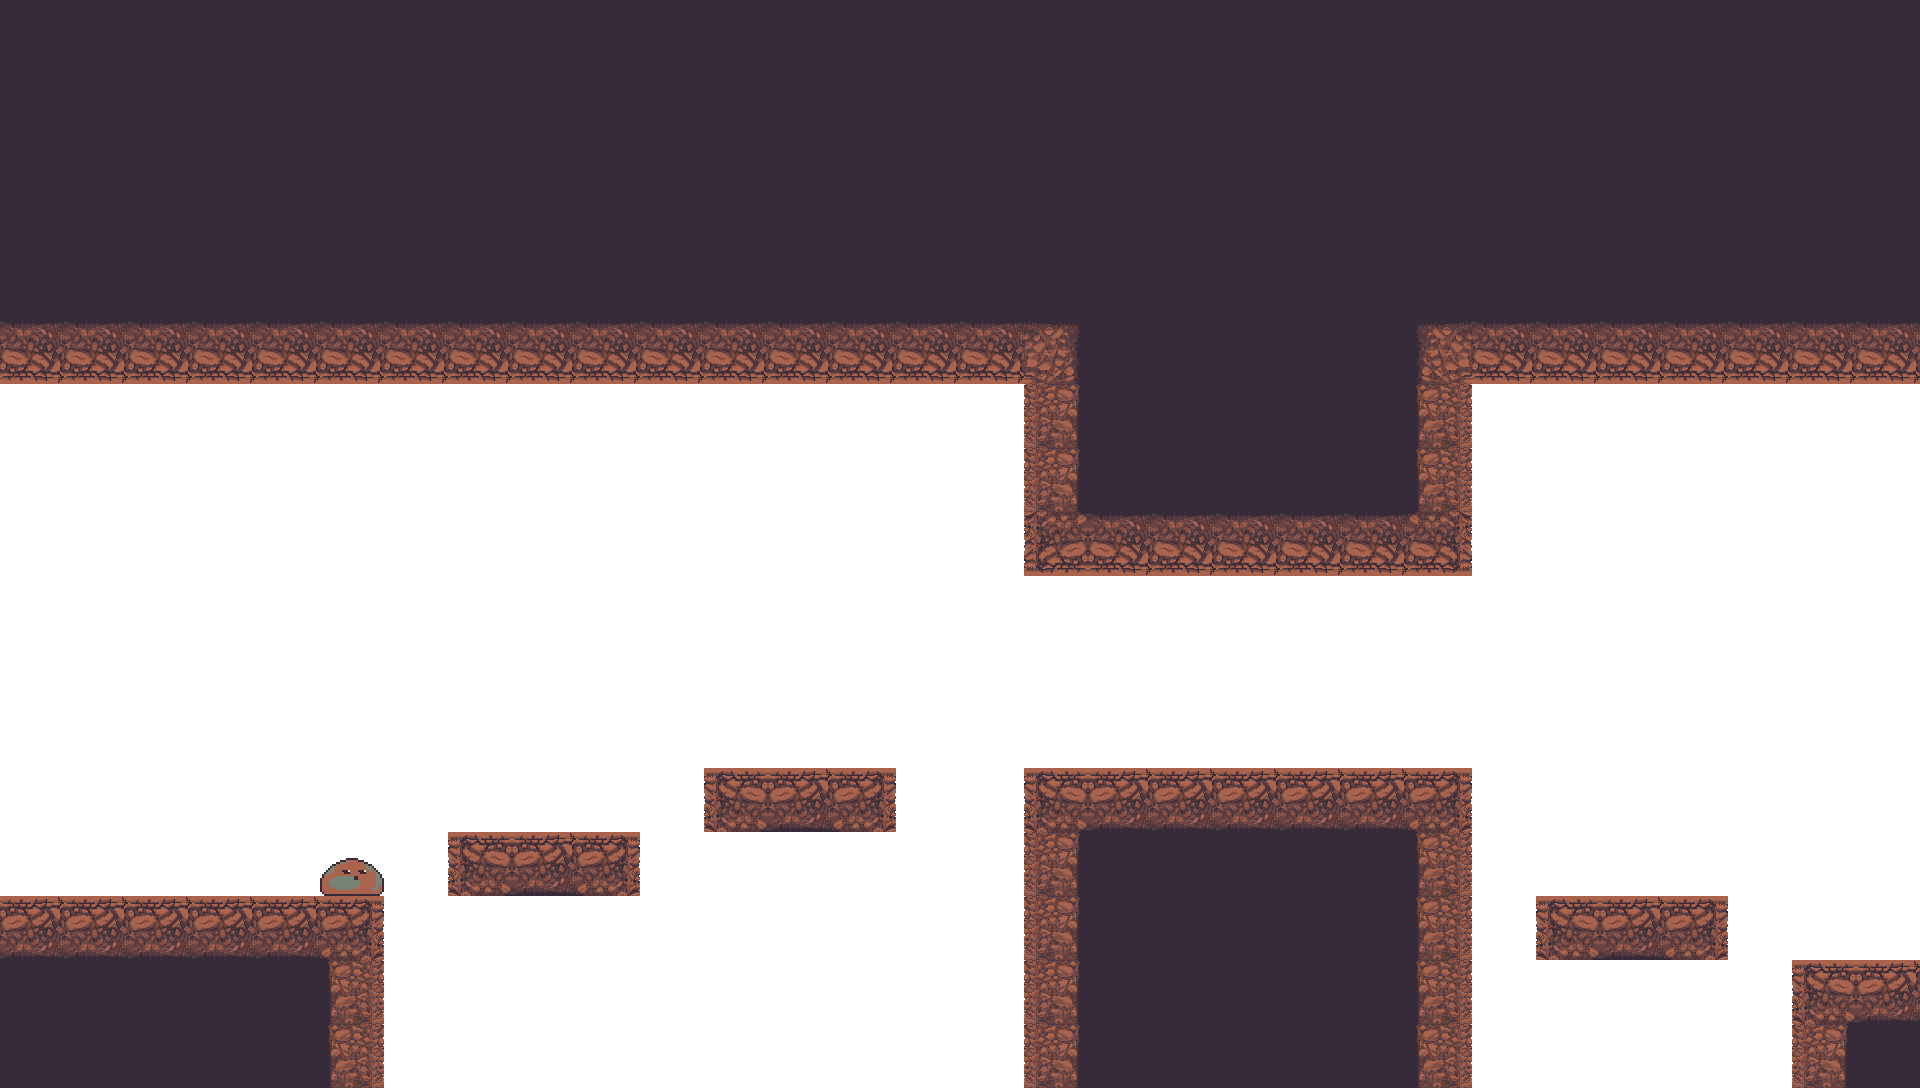
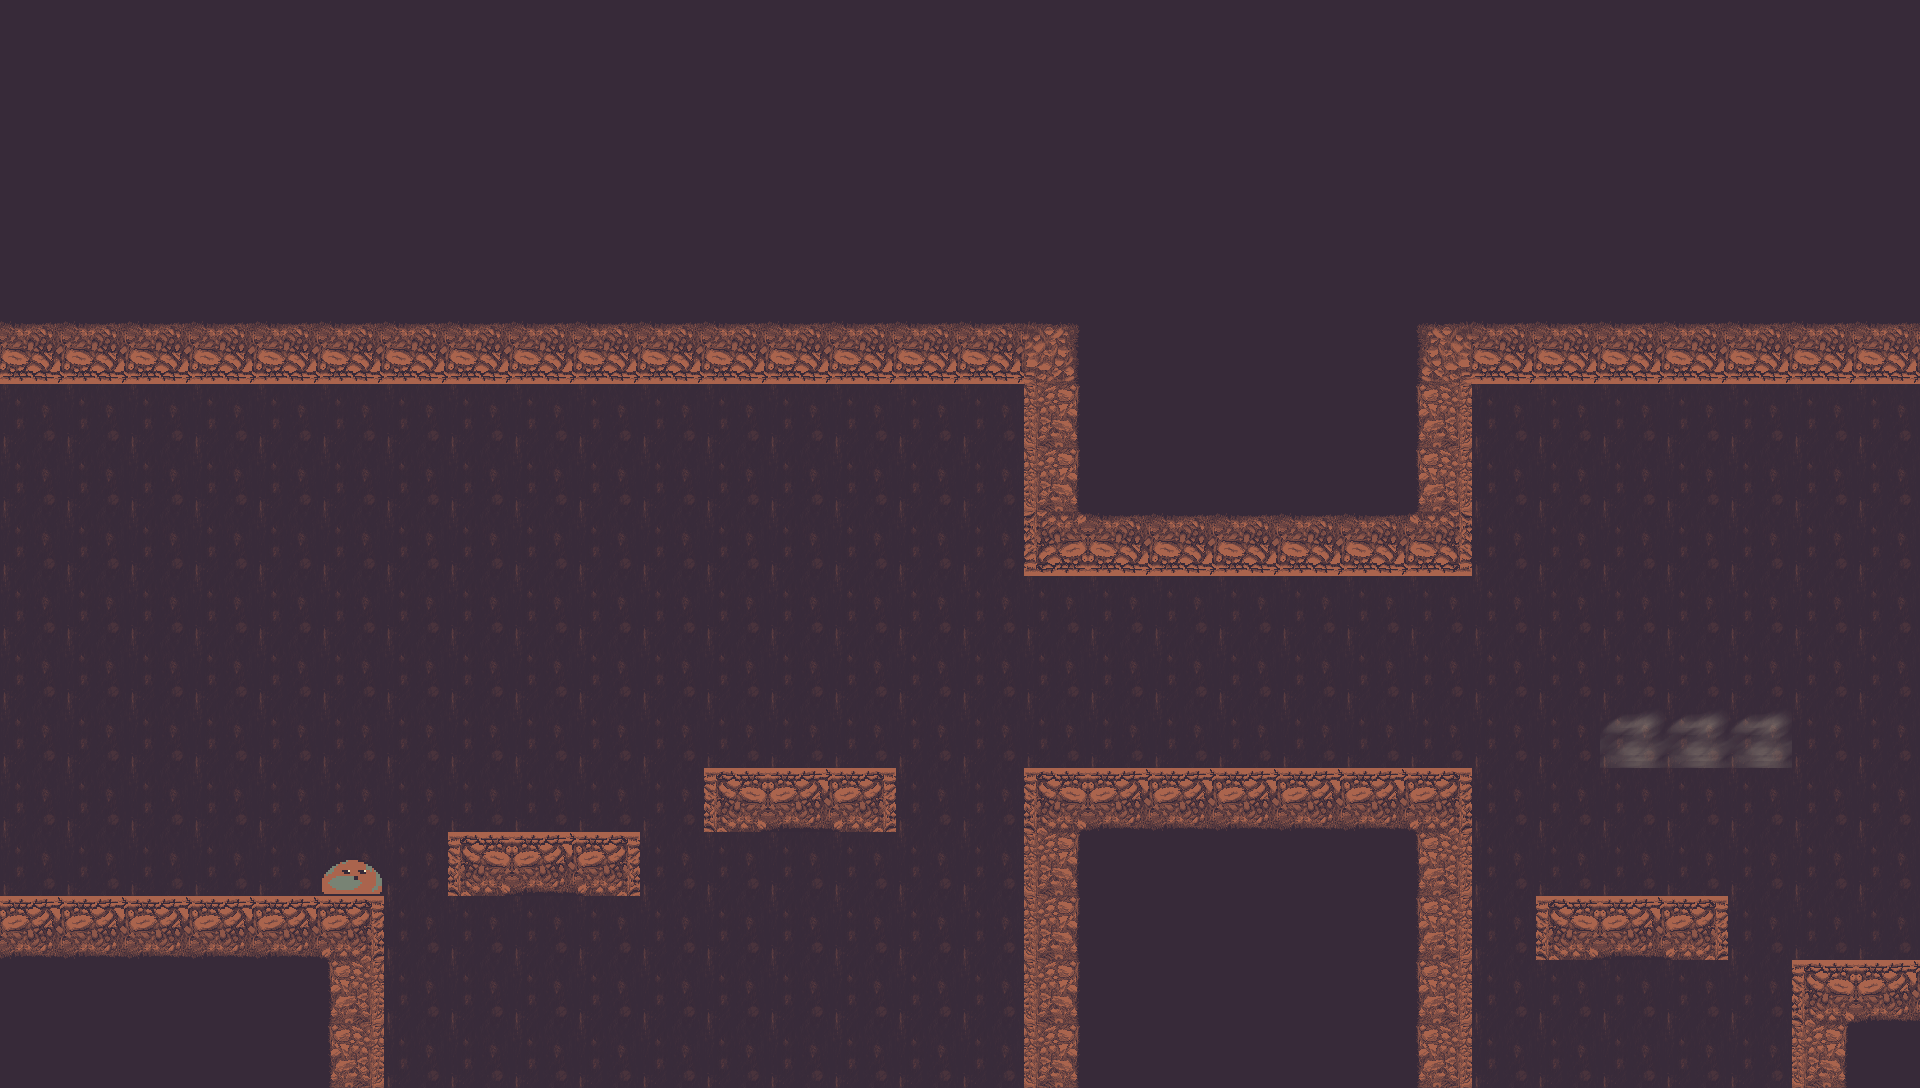
added cave walls, organized folders

diff --git a/assets/WIP/level/draft/draft_tileset.tsx b/assets/WIP/level/draft/draft_tileset.tsx
@@ -1,34 +1,55 @@
 <?xml version="1.0" encoding="UTF-8"?>
-<tileset version="1.10" tiledversion="1.10.2" name="draft_tileset" tilewidth="64" tileheight="64" tilecount="10" columns="0">
+<tileset version="1.10" tiledversion="1.10.2" name="draft_tileset" tilewidth="64" tileheight="64" tilecount="17" columns="0">
  <grid orientation="orthogonal" width="1" height="1"/>
  <tile id="8">
-  <image width="64" height="64" source="../../tileset/tiles_topleft.png"/>
+  <image width="64" height="64" source="../../tileset/permanent_blocks/tiles_topleft.png"/>
  </tile>
  <tile id="9">
-  <image width="64" height="64" source="../../tileset/tiles3.png"/>
+  <image width="64" height="64" source="../../tileset/permanent_blocks/tiles3.png"/>
  </tile>
  <tile id="10">
-  <image width="64" height="64" source="../../tileset/tiles_topright.png"/>
+  <image width="64" height="64" source="../../tileset/permanent_blocks/tiles_topright.png"/>
  </tile>
  <tile id="11">
-  <image width="64" height="64" source="../../tileset/bg.png"/>
+  <image width="64" height="64" source="../../tileset/permanent_blocks/bg.png"/>
  </tile>
  <tile id="14">
-  <image width="64" height="64" source="../../tileset/tiles_vertical_left.png"/>
+  <image width="64" height="64" source="../../tileset/permanent_blocks/tiles_vertical_left.png"/>
  </tile>
  <tile id="15">
-  <image width="64" height="64" source="../../tileset/tiles_vertical_right.png"/>
+  <image width="64" height="64" source="../../tileset/permanent_blocks/tiles_vertical_right.png"/>
  </tile>
  <tile id="16">
   <image width="64" height="64" source="../../player/slime3.png"/>
  </tile>
  <tile id="17">
-  <image width="64" height="64" source="../../tileset/tiles3_inverted.png"/>
+  <image width="64" height="64" source="../../tileset/permanent_blocks/tiles3_inverted.png"/>
  </tile>
  <tile id="18">
-  <image width="64" height="64" source="../../tileset/tiles_bottomleft.png"/>
+  <image width="64" height="64" source="../../tileset/permanent_blocks/tiles_bottomleft.png"/>
  </tile>
  <tile id="19">
-  <image width="64" height="64" source="../../tileset/tiles_bottomright.png"/>
+  <image width="64" height="64" source="../../tileset/permanent_blocks/tiles_bottomright.png"/>
+ </tile>
+ <tile id="20">
+  <image width="64" height="64" source="../../tileset/permanent_blocks/connector_tile_bottomleft.png"/>
+ </tile>
+ <tile id="21">
+  <image width="64" height="64" source="../../tileset/permanent_blocks/connector_tile_bottomright.png"/>
+ </tile>
+ <tile id="22">
+  <image width="64" height="64" source="../../tileset/permanent_blocks/connector_tile_upleft.png"/>
+ </tile>
+ <tile id="23">
+  <image width="64" height="64" source="../../tileset/permanent_blocks/connector_tile_upright.png"/>
+ </tile>
+ <tile id="29">
+  <image width="64" height="64" source="../../tileset/air_blocks/air_block.png"/>
+ </tile>
+ <tile id="30">
+  <image width="64" height="64" source="../../tileset/air_blocks/air_block2.png"/>
+ </tile>
+ <tile id="31">
+  <image width="64" height="64" source="../../tileset/cave_wall/cave_wall.png"/>
  </tile>
 </tileset>
